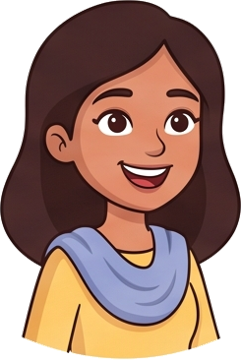
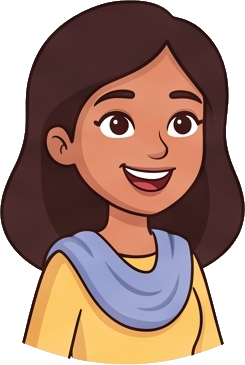
welcome: 12-frame flipbook story using all 14 Maa/son poses
- cut-characters.py cuts every pose (removes white + floor shadows)
- StoryFlipbook: son frames in a kitchen, Maa frames on a live video call, finale both cheering
- story beat advances when the flipbook ends

diff --git a/app/src/components/StoryFlipbook.tsx b/app/src/components/StoryFlipbook.tsx
@@ -1,0 +1,174 @@
+// "Aaj main banaunga!" — a frame-by-frame flipbook using every pose from the owner's character sheet.
+// Son's frames play in a kitchen panel; Maa's frames play inside a phone (live video call).
+import { useEffect, useState } from 'react';
+import { Image, type ImageSourcePropType, StyleSheet, Text, View } from 'react-native';
+import Animated, { FadeIn, FadeInUp, ZoomIn } from 'react-native-reanimated';
+import Svg, { Line, Rect } from 'react-native-svg';
+
+import { CookingTogether } from '@/components/CookingTogether';
+import { color } from '@/lib/theme';
+
+const img = {
+  maaFront: require('@/assets/images/characters/maa-front.png'),
+  maaSide: require('@/assets/images/characters/maa-side.png'),
+  maaThreeQuarter: require('@/assets/images/characters/maa-three-quarter.png'),
+  maaSmile: require('@/assets/images/characters/maa-smile.png'),
+  maaThinking: require('@/assets/images/characters/maa-thinking.png'),
+  maaConcerned: require('@/assets/images/characters/maa-concerned.png'),
+  maaCheer: require('@/assets/images/characters/maa-cheer.png'),
+  sonFront: require('@/assets/images/characters/son-front.png'),
+  sonSide: require('@/assets/images/characters/son-side.png'),
+  sonWalking: require('@/assets/images/characters/son-walking.png'),
+  sonHappy: require('@/assets/images/characters/son-happy.png'),
+  sonThinking: require('@/assets/images/characters/son-thinking.png'),
+  sonConfused: require('@/assets/images/characters/son-confused.png'),
+  sonJumping: require('@/assets/images/characters/son-jumping.png'),
+};
+
+type Frame =
+  | { kind: 'son'; pose: ImageSourcePropType; full?: boolean; line: string }
+  | { kind: 'maa'; pose: ImageSourcePropType; full?: boolean; line: string }
+  | { kind: 'cooking' }
+  | { kind: 'finale'; line: string };
+
+export const FRAMES: Frame[] = [
+  { kind: 'son', pose: img.sonWalking, full: true, line: 'Aaj khana main banaunga!' },
+  { kind: 'son', pose: img.sonSide, full: true, line: 'Hmm… aloo gobi.' },
+  { kind: 'son', pose: img.sonConfused, line: 'Par shuru kahan se karun?' },
+  { kind: 'son', pose: img.sonThinking, line: 'Maa ko call karta hoon!' },
+  { kind: 'maa', pose: img.maaSide, full: true, line: 'Haan beta?' },
+  { kind: 'maa', pose: img.maaFront, full: true, line: 'Main hoon na, bata kya banana hai?' },
+  { kind: 'maa', pose: img.maaThinking, line: 'Pehle tel garam kar, phir jeera…' },
+  { kind: 'cooking' },
+  { kind: 'maa', pose: img.maaConcerned, line: 'Aanch dheemi kar, jal jayega!' },
+  { kind: 'maa', pose: img.maaThreeQuarter, full: true, line: 'Shabash! Ab 15 minute pakne de.' },
+  { kind: 'son', pose: img.sonFront, full: true, line: 'Ho gaya, Maa!' },
+  { kind: 'finale', line: 'Wah mera beta!' },
+];
+
+const FRAME_MS = 1500;
+const COOKING_MS = 3200; // the cooking scene has its own animations; give it longer
+const FINALE_MS = 2500;
+/** Rough total, for the welcome's progress bar. The flipbook itself calls onDone when it really ends. */
+export const STORY_MS = (FRAMES.length - 2) * FRAME_MS + COOKING_MS + FINALE_MS;
+
+export function StoryFlipbook({ onDone }: { onDone?: () => void }) {
+  const [i, setI] = useState(0);
+  const frame = FRAMES[i];
+  const last = i === FRAMES.length - 1;
+
+  useEffect(() => {
+    const t = setTimeout(() => (last ? onDone?.() : setI(i + 1)), last ? FINALE_MS : frame.kind === 'cooking' ? COOKING_MS : FRAME_MS);
+    return () => clearTimeout(t);
+  }, [i, last, frame.kind, onDone]);
+
+  return (
+    <View style={s.stage}>
+      {/* warm every pose so frames don't blink in on first show (matters on web) */}
+      <View style={s.preload} pointerEvents="none">
+        {Object.values(img).map((src, n) => (
+          <Image key={n} source={src} style={{ width: 1, height: 1 }} />
+        ))}
+      </View>
+
+      <Animated.View key={i} entering={FadeIn.duration(220)} style={StyleSheet.absoluteFill}>
+        {frame.kind === 'son' && <SonPanel pose={frame.pose} full={frame.full} />}
+        {frame.kind === 'maa' && <MaaPanel pose={frame.pose} full={frame.full} />}
+        {frame.kind === 'cooking' && (
+          <View style={s.cookingWrap}>
+            <CookingTogether />
+          </View>
+        )}
+        {frame.kind === 'finale' && <Finale />}
+
+        {'line' in frame && (
+          <Animated.View
+            entering={FadeInUp.delay(120).duration(260)}
+            style={[s.bubble, frame.kind === 'son' ? s.sonBubble : s.maaBubble]}>
+            <Text style={[s.bubbleText, frame.kind === 'son' && { color: color.accentText }]}>{frame.line}</Text>
+          </Animated.View>
+        )}
+      </Animated.View>
+
+      <Text style={s.counter}>{`${i + 1}/${FRAMES.length}`}</Text>
+    </View>
+  );
+}
+
+function Kitchen() {
+  return (
+    <Svg style={StyleSheet.absoluteFill} viewBox="0 0 320 300" preserveAspectRatio="none">
+      <Rect x={0} y={0} width={320} height={300} rx={20} fill="#FAEEDA" />
+      <Rect x={220} y={70} width={70} height={56} rx={6} fill="#FFF8F0" stroke="#E7D8CB" strokeWidth={3} />
+      <Line x1={255} y1={70} x2={255} y2={126} stroke="#E7D8CB" strokeWidth={3} />
+      <Line x1={220} y1={98} x2={290} y2={98} stroke="#E7D8CB" strokeWidth={3} />
+      <Rect x={20} y={80} width={14} height={18} rx={3} fill="#EF9F27" />
+      <Rect x={38} y={84} width={12} height={14} rx={3} fill="#C2410C" />
+      <Rect x={14} y={98} width={42} height={4} rx={2} fill="#854F0B" />
+      <Rect x={0} y={262} width={320} height={38} fill="#E7D8CB" />
+    </Svg>
+  );
+}
+
+function SonPanel({ pose, full }: { pose: ImageSourcePropType; full?: boolean }) {
+  return (
+    <View style={s.panel}>
+      <Kitchen />
+      <Animated.Image entering={ZoomIn.duration(260)} source={pose} resizeMode="contain" style={full ? s.fullBody : s.bust} />
+    </View>
+  );
+}
+
+function MaaPanel({ pose, full }: { pose: ImageSourcePropType; full?: boolean }) {
+  return (
+    <View style={[s.panel, { backgroundColor: color.soft }]}>
+      <View style={s.phone}>
+        <View style={s.phoneScreen}>
+          <Animated.Image entering={ZoomIn.duration(260)} source={pose} resizeMode="contain" style={full ? s.phoneFull : s.phoneBust} />
+          <View style={s.live}>
+            <Text style={s.liveText}>LIVE · Maa</Text>
+          </View>
+        </View>
+      </View>
+    </View>
+  );
+}
+
+function Finale() {
+  return (
+    <View style={s.panel}>
+      <Kitchen />
+      <Animated.Image entering={ZoomIn.duration(300)} source={img.sonJumping} resizeMode="contain" style={s.finaleSon} />
+      <View style={[s.phone, s.finalePhone]}>
+        <View style={s.phoneScreen}>
+          <Animated.Image entering={ZoomIn.delay(150).duration(300)} source={img.maaCheer} resizeMode="contain" style={s.phoneBust} />
+          <View style={s.live}>
+            <Text style={s.liveText}>LIVE · Maa</Text>
+          </View>
+        </View>
+      </View>
+    </View>
+  );
+}
+
+const s = StyleSheet.create({
+  stage: { width: '100%', aspectRatio: 320 / 300, borderRadius: 20, overflow: 'hidden', backgroundColor: '#FAEEDA' },
+  preload: { position: 'absolute', opacity: 0, width: 1, height: 1, overflow: 'hidden' },
+  panel: { flex: 1, alignItems: 'center', justifyContent: 'flex-end' },
+  fullBody: { height: '86%', aspectRatio: 0.45, marginBottom: '2%' },
+  bust: { height: '66%', aspectRatio: 0.66 },
+  cookingWrap: { flex: 1, justifyContent: 'flex-end' },
+  phone: { width: '48%', height: '72%', backgroundColor: '#1F1A17', borderRadius: 22, padding: 6, marginBottom: '3%' },
+  phoneScreen: { flex: 1, borderRadius: 16, overflow: 'hidden', backgroundColor: '#DCEAF7', alignItems: 'center', justifyContent: 'flex-end' },
+  phoneFull: { height: '92%', aspectRatio: 0.38 },
+  phoneBust: { width: '100%', height: '78%' },
+  live: { position: 'absolute', top: 8, left: 8, backgroundColor: '#E24B4A', borderRadius: 5, paddingHorizontal: 6, paddingVertical: 2 },
+  liveText: { color: '#FFFFFF', fontSize: 10, fontWeight: '800' },
+  finaleSon: { position: 'absolute', left: '2%', bottom: '4%', width: '48%', height: '72%' },
+  finalePhone: { position: 'absolute', right: '4%', bottom: '1%', width: '40%', height: '66%' },
+  bubble: { position: 'absolute', top: 12, maxWidth: '78%', paddingHorizontal: 14, paddingVertical: 9, borderRadius: 18 },
+  sonBubble: { left: 12, backgroundColor: color.accent, borderBottomLeftRadius: 4 },
+  maaBubble: { right: 12, backgroundColor: color.card, borderWidth: 1, borderColor: color.border, borderBottomRightRadius: 4 },
+  bubbleText: { fontSize: 16, fontWeight: '700', color: color.text },
+  counter: { position: 'absolute', bottom: 8, right: 12, fontSize: 11, color: color.muted },
+});

diff --git a/app/src/app/welcome.tsx b/app/src/app/welcome.tsx
@@ -7,13 +7,14 @@ import { Image, Pressable, StyleSheet, Text, View } from 'react-native';
 import Animated, { FadeIn, FadeInDown, FadeInUp, useAnimatedStyle, useSharedValue, withTiming, ZoomIn } from 'react-native-reanimated';
 import { SafeAreaView } from 'react-native-safe-area-context';
 
-import { CookingTogether } from '@/components/CookingTogether';
+import { STORY_MS, StoryFlipbook } from '@/components/StoryFlipbook';
 import { Btn, Chip } from '@/components/ui';
 import { LANGUAGES } from '@/lib/labels';
 import { prefs } from '@/lib/prefs';
 import { color, size } from '@/lib/theme';
 
-const BEAT_MS = [5000, 5000, 5500, 6000, 0]; // 0 = last beat waits for the user
+const BEAT_MS = [5000, 5000, 5500, STORY_MS, 0]; // 0 = last beat waits for the user
+const STORY = 3; // this beat advances when the flipbook says it's done, not on a timer
 const LAST = BEAT_MS.length - 1;
 
 export default function Welcome() {
@@ -21,7 +22,7 @@ export default function Welcome() {
   const [language, setLanguage] = useState(prefs.language());
 
   useEffect(() => {
-    if (beat === LAST) return;
+    if (beat === LAST || beat === STORY) return;
     const t = setTimeout(() => setBeat((b) => Math.min(b + 1, LAST)), BEAT_MS[beat]);
     return () => clearTimeout(t);
   }, [beat]);
@@ -58,7 +59,7 @@ export default function Welcome() {
           {beat === 0 && <TheCall />}
           {beat === 1 && <TheChaos />}
           {beat === 2 && <TheMagic />}
-          {beat === 3 && <Together />}
+          {beat === STORY && <Together onDone={() => setBeat(STORY + 1)} />}
           {beat === 4 && <ThePromise language={language} setLanguage={setLanguage} onStart={() => finish('/add')} onExplore={() => finish('/')} />}
         </View>
       </Pressable>
@@ -158,17 +159,17 @@ function TheMagic() {
   );
 }
 
-function Together() {
+function Together({ onDone }: { onDone: () => void }) {
   return (
     <View style={s.beat}>
       <Label>COOKING TOGETHER</Label>
       <Animated.View entering={FadeIn.duration(500)}>
-        <CookingTogether />
+        <StoryFlipbook onDone={onDone} />
       </Animated.View>
-      <Animated.Text entering={FadeInUp.delay(2200)} style={s.big}>
+      <Animated.Text entering={FadeInUp.delay(800)} style={s.big}>
         {'Like Maa is right\nthere with you'}
       </Animated.Text>
-      <Animated.Text entering={FadeIn.delay(2700)} style={s.muted}>
+      <Animated.Text entering={FadeIn.delay(1200)} style={s.muted}>
         One step at a time, with timers. At your pace.
       </Animated.Text>
     </View>

diff --git a/app/scripts/cut-characters.py b/app/scripts/cut-characters.py
@@ -1,33 +1,53 @@
-"""Cut character busts out of mom-son.png onto transparent backgrounds."""
+"""Cut every pose out of the owner's character sheet (mom-son.png) onto transparent backgrounds.
+
+Run from anywhere: python app/scripts/cut-characters.py
+"""
+import os
 from collections import deque
 
 import numpy as np
 from PIL import Image
 
-import os
-
 HERE = os.path.dirname(os.path.abspath(__file__))
 SRC = os.path.join(HERE, "..", "..", "mom-son.png")  # owner-provided character sheet at repo root
 OUT = os.path.join(HERE, "..", "assets", "images", "characters") + os.sep
-PREVIEW = None  # set to a folder path to also save previews on the app's cream background
+PREVIEW = None  # set to a folder path to also save a contact sheet on the app's cream background
 
-# (name, box in original pixels: left, top, right, bottom) — generous margins, background removed below.
+# name: (box in original sheet pixels: left, top, right, bottom), max output size (w, h)
+BUST, FULL = (420, 420), (320, 700)
 CROPS = {
-    "maa-smile": (95, 1040, 380, 1430),
-    "son-happy": (1520, 1040, 1790, 1430),
+    # Maa
+    "maa-front": ((140, 80, 455, 965), FULL),
+    "maa-side": ((615, 85, 910, 960), FULL),
+    "maa-three-quarter": ((1030, 85, 1375, 960), FULL),
+    "maa-smile": ((95, 1040, 380, 1430), BUST),
+    "maa-thinking": ((420, 1045, 670, 1435), BUST),
+    "maa-concerned": ((745, 1050, 995, 1430), BUST),
+    "maa-cheer": ((1010, 1030, 1440, 1435), BUST),
+    # son
+    "son-front": ((1550, 255, 1835, 940), FULL),
+    "son-side": ((1960, 255, 2225, 930), FULL),
+    "son-walking": ((2345, 255, 2705, 940), FULL),
+    "son-happy": ((1520, 1040, 1790, 1430), BUST),
+    "son-thinking": ((1820, 1045, 2075, 1430), BUST),
+    "son-confused": ((2100, 1045, 2380, 1430), BUST),
+    "son-jumping": ((2380, 950, 2745, 1500), FULL),
 }
 
 
-def remove_bg(img: Image.Image, thresh=232) -> Image.Image:
-    """Flood-fill near-white pixels connected to the border -> transparent. Enclosed whites (eyes, teeth) stay."""
+def remove_bg(img: Image.Image) -> Image.Image:
+    """Flood-fill background connected to the border -> transparent.
+    Background = light and low-saturation: white paper plus the soft lavender floor shadows.
+    Enclosed light areas (eyes, teeth, sneaker soles) aren't connected to the border, so they stay."""
     a = np.array(img.convert("RGBA"))
     h, w = a.shape[:2]
-    light = (a[:, :, :3] >= thresh).all(axis=2)
+    rgb = a[:, :, :3].astype(int)
+    bg = (rgb.min(axis=2) >= 185) & ((rgb.max(axis=2) - rgb.min(axis=2)) < 60)
     seen = np.zeros((h, w), bool)
     q = deque([(y, x) for x in range(w) for y in (0, h - 1)] + [(y, x) for y in range(h) for x in (0, w - 1)])
     while q:
         y, x = q.popleft()
-        if not (0 <= y < h and 0 <= x < w) or seen[y, x] or not light[y, x]:
+        if not (0 <= y < h and 0 <= x < w) or seen[y, x] or not bg[y, x]:
             continue
         seen[y, x] = True
         q.extend(((y + 1, x), (y - 1, x), (y, x + 1), (y, x - 1)))
@@ -35,8 +55,8 @@ def remove_bg(img: Image.Image, thresh=232) -> Image.Image:
     # soften the 1px fringe next to removed background (anti-aliased outline pixels)
     edge = np.zeros_like(seen)
     edge[1:, :] |= seen[:-1, :]; edge[:-1, :] |= seen[1:, :]; edge[:, 1:] |= seen[:, :-1]; edge[:, :-1] |= seen[:, 1:]
-    fringe = edge & ~seen & (a[:, :, :3].min(axis=2) > 200)
-    a[fringe, 3] = 120
+    fringe = edge & ~seen & (rgb.min(axis=2) > 170)
+    a[fringe, 3] = 110
     out = Image.fromarray(a)
     return out.crop(out.getbbox())
 
@@ -44,12 +64,19 @@ def remove_bg(img: Image.Image, thresh=232) -> Image.Image:
 os.makedirs(OUT, exist_ok=True)
 sheet = Image.open(SRC)
 print("sheet", sheet.size)
-for name, box in CROPS.items():
+cuts = {}
+for name, (box, max_size) in CROPS.items():
     cut = remove_bg(sheet.crop(box))
-    cut.thumbnail((360, 360))  # plenty for a ~120pt slot at 3x
+    cut.thumbnail(max_size)
     cut.save(OUT + name + ".png", optimize=True)
-    if PREVIEW:  # on the app's cream background, to eyeball halos
-        bg = Image.new("RGBA", cut.size, (250, 238, 218, 255))
-        bg.alpha_composite(cut)
-        bg.save(os.path.join(PREVIEW, "preview-" + name + ".png"))
-    print(name, cut.size, os.path.getsize(OUT + name + ".png"), "bytes")
+    cuts[name] = cut
+    print(f"{name:18} {cut.size}  {os.path.getsize(OUT + name + '.png') // 1024} KB")
+
+if PREVIEW:  # contact sheet on the app's cream background, to eyeball halos and stray shadows
+    cell = 240
+    grid = Image.new("RGBA", (cell * 7, cell * 2), (250, 238, 218, 255))
+    for i, cut in enumerate(cuts.values()):
+        c = cut.copy()
+        c.thumbnail((cell - 10, cell - 10))
+        grid.alpha_composite(c, ((i % 7) * cell + (cell - c.width) // 2, (i // 7) * cell + (cell - c.height) // 2))
+    grid.save(os.path.join(PREVIEW, "characters-contact-sheet.png"))

diff --git a/docs/ROADMAP.md b/docs/ROADMAP.md
@@ -48,3 +48,4 @@
 | 2026-09-26 | Welcome = 5-beat auto-playing "ad": the call → the chaos → the magic → cooking together (cartoon: son cooks, Maa on live video) → the promise (+ trust line, language, "Save your first recipe") | Owner wants emotion + trust over feature lists; story-style progress bars, tap to skip; reanimated respects reduce-motion |
 | 2026-09-26 | react-native-svg for the cartoon scene | Vector, no image assets, bundled in Expo Go |
 | 2026-09-26 | Beat 4 uses the owner's Maa + son characters (mom-son.png), cut to transparent PNGs in assets/images/characters | Owner wants characters to look more real; script: app/scripts/cut-characters.py |
+| 2026-09-26 | Beat 4 = 12-frame flipbook "Aaj main banaunga!" using all 14 poses (StoryFlipbook.tsx); beat advances when the story ends (onDone), not on a fixed timer | Owner: "use all the characters, frame by frame"; fixed timer cut off the finale |
